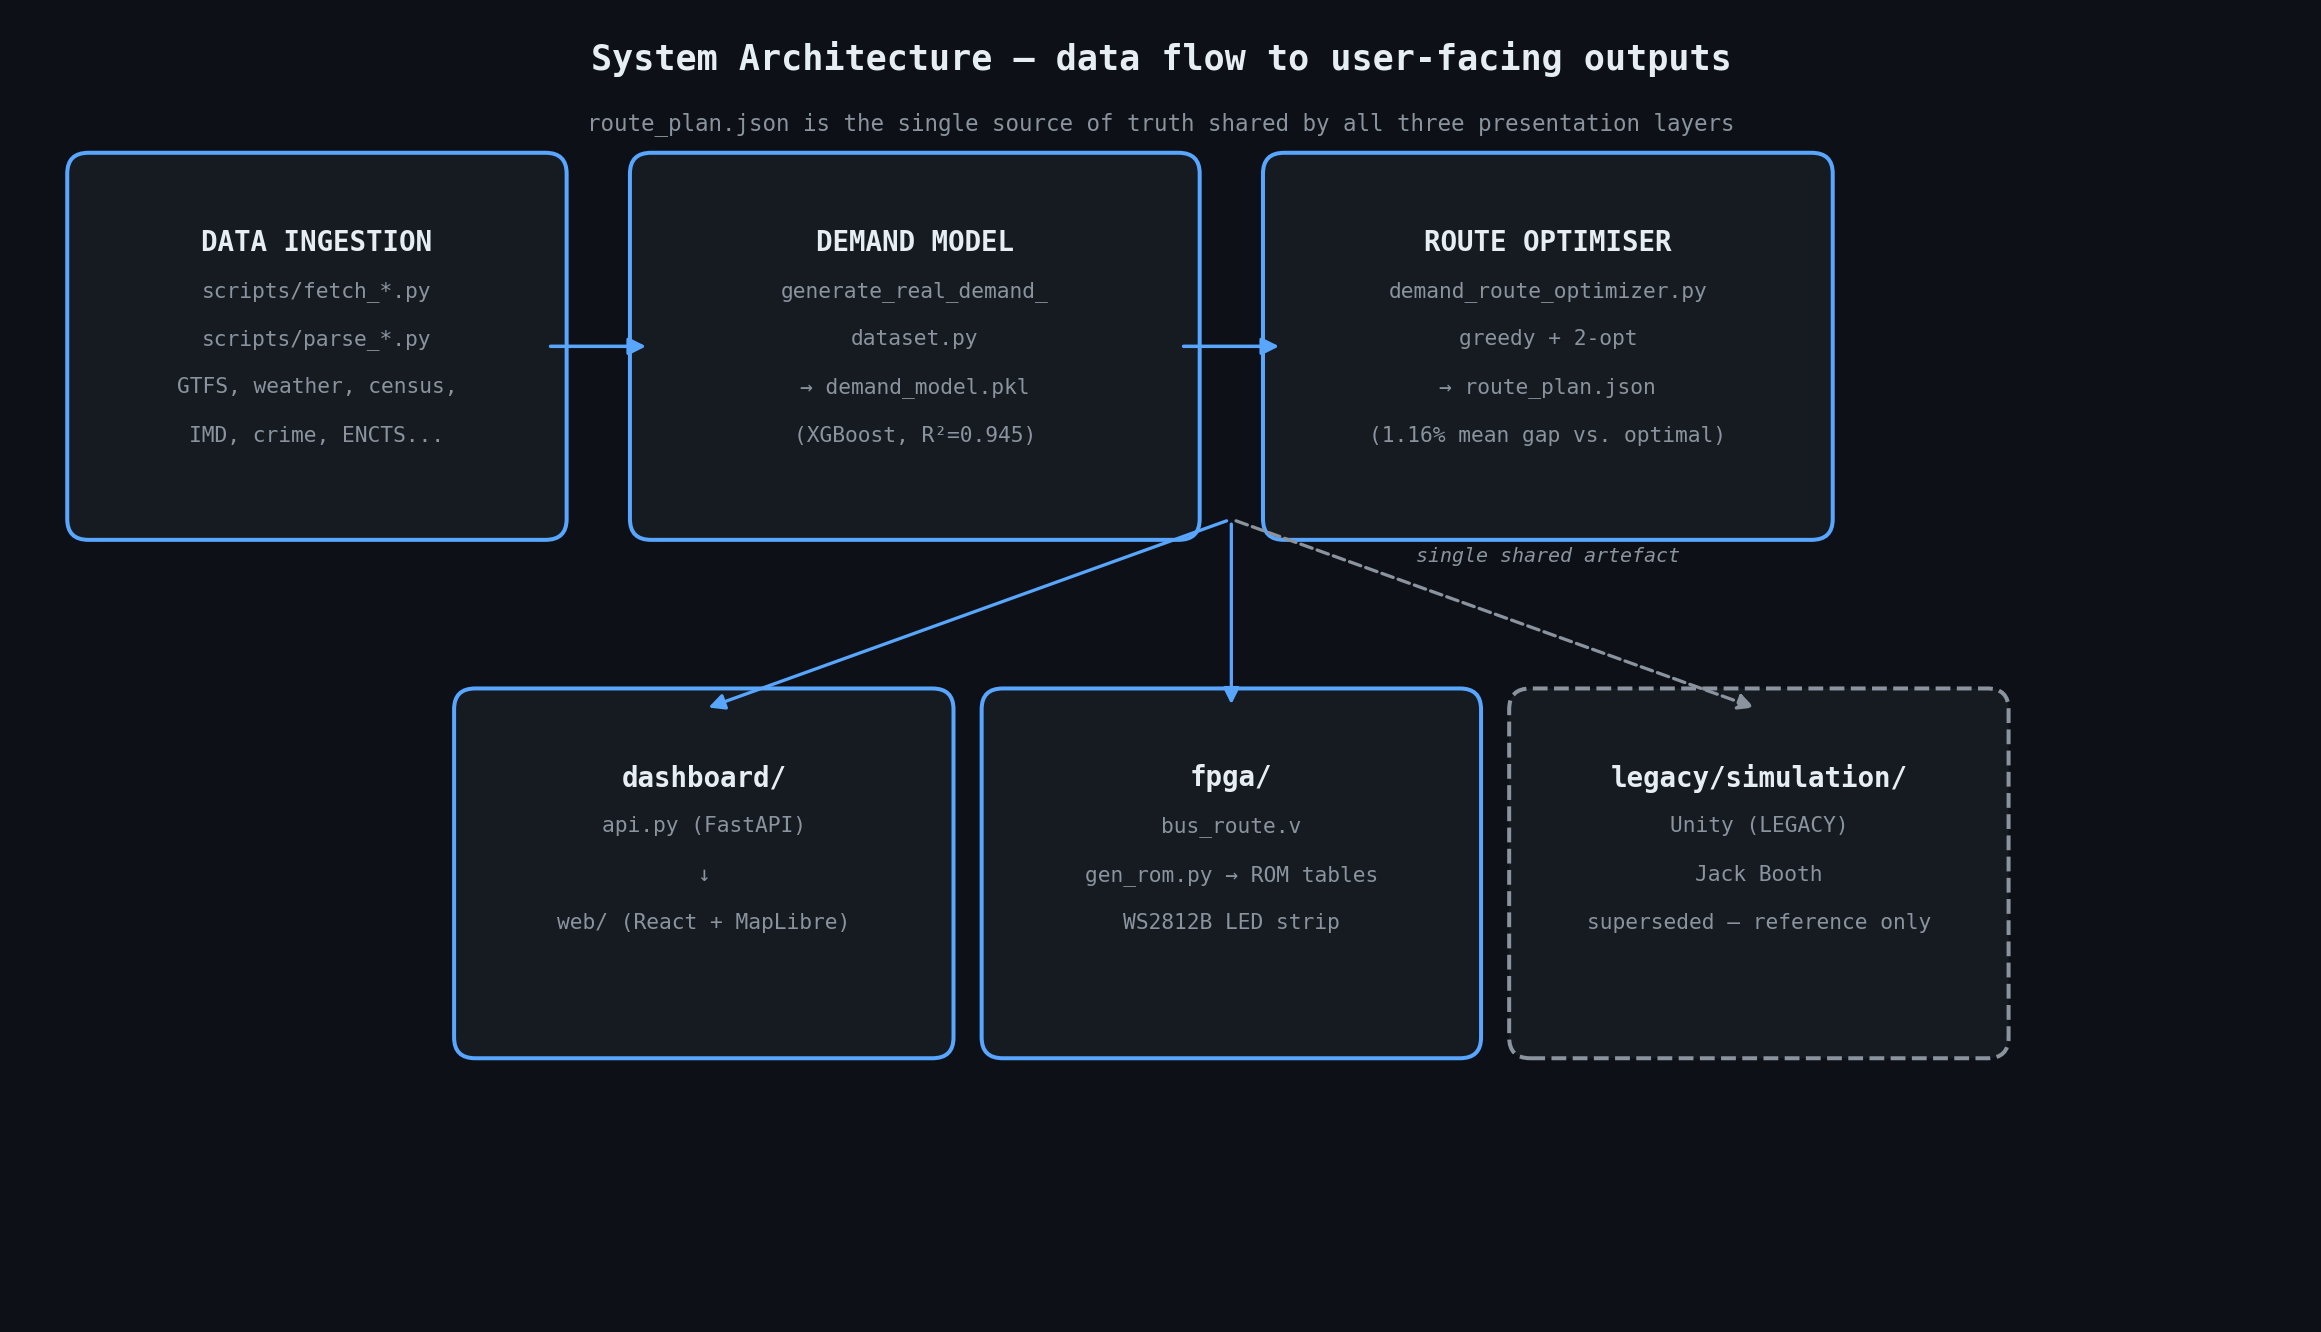
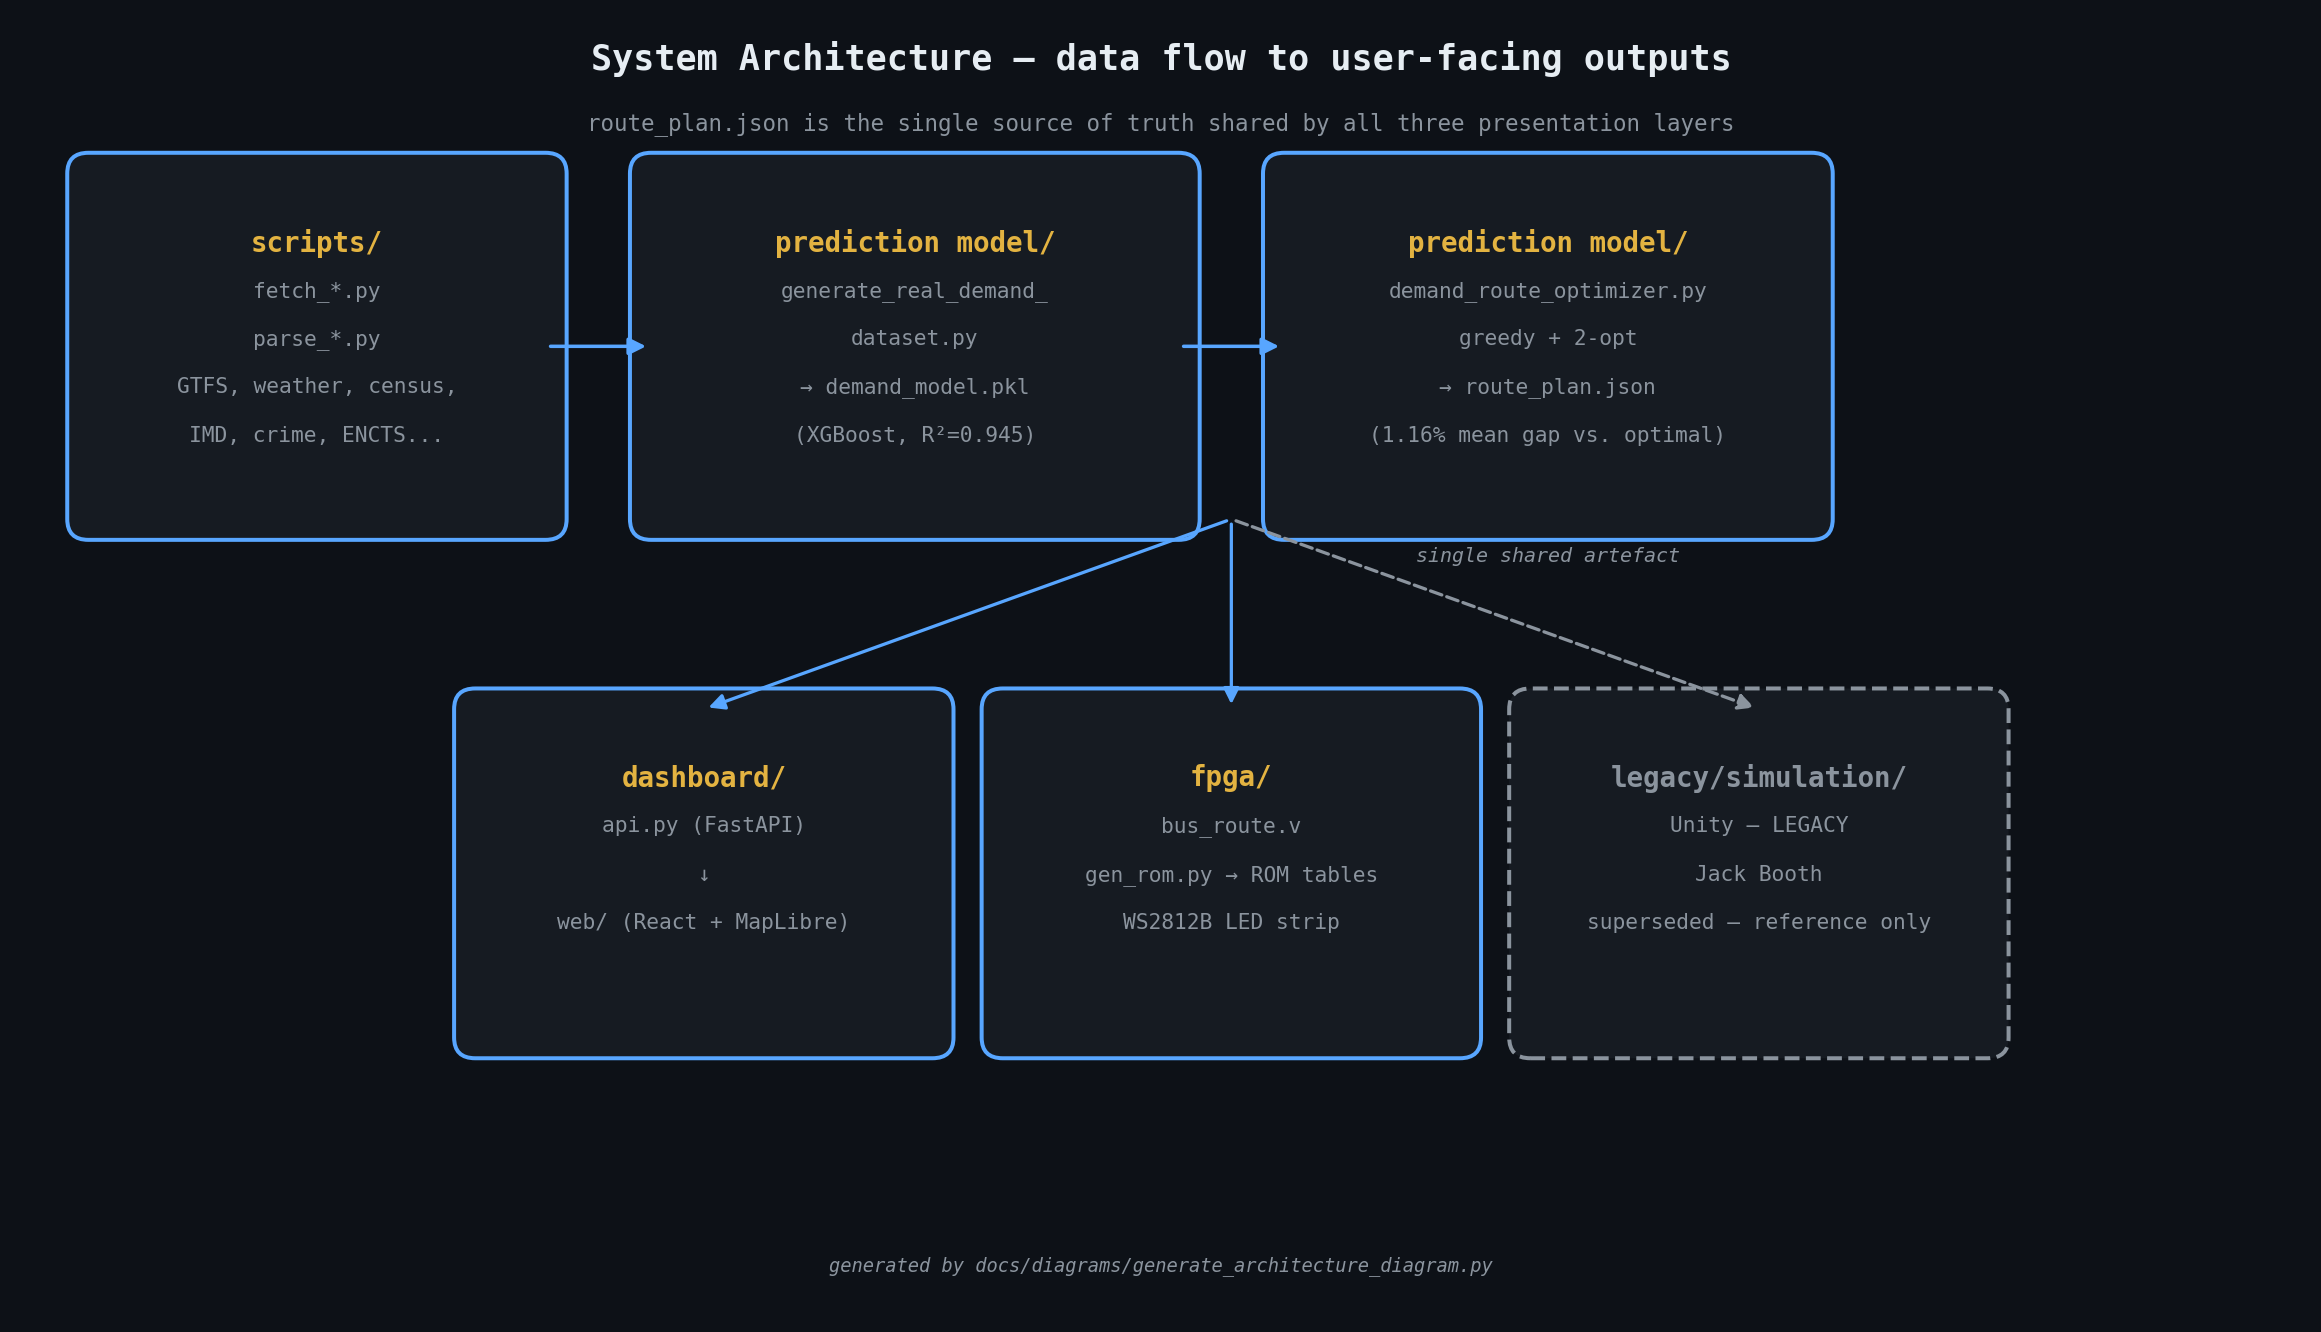
Replace ASCII architecture diagram with a regenerated matplotlib version that embeds real file paths as box titles

diff --git a/docs/diagrams/generate_architecture_diagram.py b/docs/diagrams/generate_architecture_diagram.py
@@ -11,6 +11,7 @@ BOX_EDGE = "#58a6ff"
 LEGACY_EDGE = "#8b949e"
 TEXT = "#e6edf3"
 SUBTEXT = "#8b949e"
+PATH = "#e3b341"
 ARROW = "#58a6ff"
 
 fig, ax = plt.subplots(figsize=(13, 7.5))
@@ -21,7 +22,7 @@ ax.set_ylim(0, 7.5)
 ax.axis("off")
 
 
-def box(x, y, w, h, title, lines, edge=BOX_EDGE, dashed=False):
+def box(x, y, w, h, title, lines, edge=BOX_EDGE, dashed=False, title_color=PATH):
     style = "round,pad=0.12,rounding_size=0.12"
     patch = FancyBboxPatch(
         (x, y), w, h, boxstyle=style,
@@ -30,7 +31,7 @@ def box(x, y, w, h, title, lines, edge=BOX_EDGE, dashed=False):
     )
     ax.add_patch(patch)
     ax.text(x + w / 2, y + h - 0.32, title, ha="center", va="top",
-            color=TEXT, fontsize=11, fontweight="bold", family="monospace")
+            color=title_color, fontsize=11, fontweight="bold", family="monospace")
     for i, line in enumerate(lines):
         ax.text(x + w / 2, y + h - 0.62 - i * 0.28, line, ha="center", va="top",
                 color=SUBTEXT, fontsize=8.5, family="monospace")
@@ -55,17 +56,17 @@ def arrow(b1, b2, label=None, style="-|>", color=ARROW):
 
 
 # Layer 1 — ingestion
-ingestion = box(0.4, 4.6, 2.6, 2.0, "DATA INGESTION",
-                ["scripts/fetch_*.py", "scripts/parse_*.py",
+ingestion = box(0.4, 4.6, 2.6, 2.0, "scripts/",
+                ["fetch_*.py", "parse_*.py",
                  "GTFS, weather, census,", "IMD, crime, ENCTS..."])
 
 # Layer 2 — demand model
-demand = box(3.6, 4.6, 3.0, 2.0, "DEMAND MODEL",
+demand = box(3.6, 4.6, 3.0, 2.0, "prediction model/",
              ["generate_real_demand_", "dataset.py",
               "→ demand_model.pkl", "(XGBoost, R²=0.945)"])
 
 # Layer 3 — optimiser
-optimiser = box(7.2, 4.6, 3.0, 2.0, "ROUTE OPTIMISER",
+optimiser = box(7.2, 4.6, 3.0, 2.0, "prediction model/",
                 ["demand_route_optimizer.py", "greedy + 2-opt",
                  "→ route_plan.json", "(1.16% mean gap vs. optimal)"])
 
@@ -82,8 +83,8 @@ dash = box(2.6, 1.6, 2.6, 1.9, "dashboard/",
 fpga = box(5.6, 1.6, 2.6, 1.9, "fpga/",
            ["bus_route.v", "gen_rom.py → ROM tables", "WS2812B LED strip"])
 unity = box(8.6, 1.6, 2.6, 1.9, "legacy/simulation/",
-            ["Unity (LEGACY)", "Jack Booth", "superseded — reference only"],
-            edge=LEGACY_EDGE, dashed=True)
+            ["Unity — LEGACY", "Jack Booth", "superseded — reference only"],
+            edge=LEGACY_EDGE, dashed=True, title_color=LEGACY_EDGE)
 
 # fan-out from route_plan.json
 src = (6.9, optimiser[1])
@@ -100,6 +101,8 @@ ax.text(6.5, 7.2, "System Architecture — data flow to user-facing outputs",
         ha="center", color=TEXT, fontsize=14, fontweight="bold", family="monospace")
 ax.text(6.5, 6.85, "route_plan.json is the single source of truth shared by all three presentation layers",
         ha="center", color=SUBTEXT, fontsize=9, family="monospace")
+ax.text(6.5, 0.25, "generated by docs/diagrams/generate_architecture_diagram.py",
+        ha="center", color=SUBTEXT, fontsize=7.5, style="italic", family="monospace")
 
 plt.tight_layout()
 plt.savefig("docs/diagrams/architecture.png", dpi=180, facecolor=BG, bbox_inches="tight")

diff --git a/docs/ARCHITECTURE.md b/docs/ARCHITECTURE.md
@@ -6,29 +6,7 @@ companion to the "Methodology at a Glance" diagram in the main [README](../READM
 
 ## System overview
 
-![System architecture diagram](diagrams/architecture.png)
-
-*(Generated by [`generate_architecture_diagram.py`](diagrams/generate_architecture_diagram.py) — matplotlib, rerunnable from source.)*
-
-```
-┌─────────────────────┐    ┌──────────────────────┐    ┌────────────────────────┐
-│  DATA INGESTION     │    │   DEMAND MODEL       │    │   ROUTE OPTIMISER      │
-│  scripts/fetch_*.py │ ─▶ │ generate_real_demand │ ─▶ │ demand_route_optimizer │
-│  scripts/parse_*.py │    │  _dataset.py         │    │  .py                   │
-│                     │    │ → demand_model.pkl   │    │ → route_plan.json      │
-└─────────────────────┘    │   (XGBoost, R²=0.945)│    └───────────┬────────────┘
-                           └──────────────────────┘                │
-                                                    ┌───────────────┼───────────────┐
-                                                    ▼               ▼               ▼
-                                          ┌──────────────┐ ┌──────────────┐ ┌──────────────┐
-                                          │ dashboard/   │ │ fpga/        │ │ Unity (legacy)│
-                                          │ api.py       │ │ bus_route.v  │ │ simulation/  │
-                                          │ (FastAPI)    │ │ (gen_rom.py  │ │ (Jack Booth) │
-                                          │      │       │ │  → ROM       │ │              │
-                                          │      ▼       │ │  tables)     │ │              │
-                                          │ web/ (React) │ └──────────────┘ └──────────────┘
-                                          └──────────────┘
-```
+![System architecture diagram, generated from generate_architecture_diagram.py](diagrams/architecture.png)
 
 ## Layer 1 — Data ingestion (`scripts/`)
 